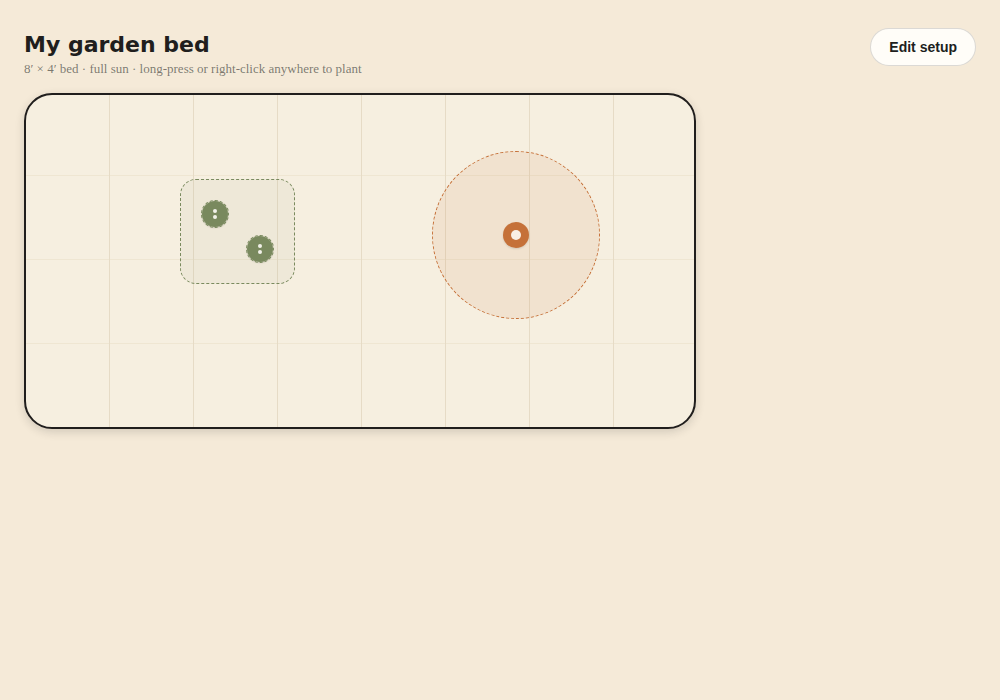
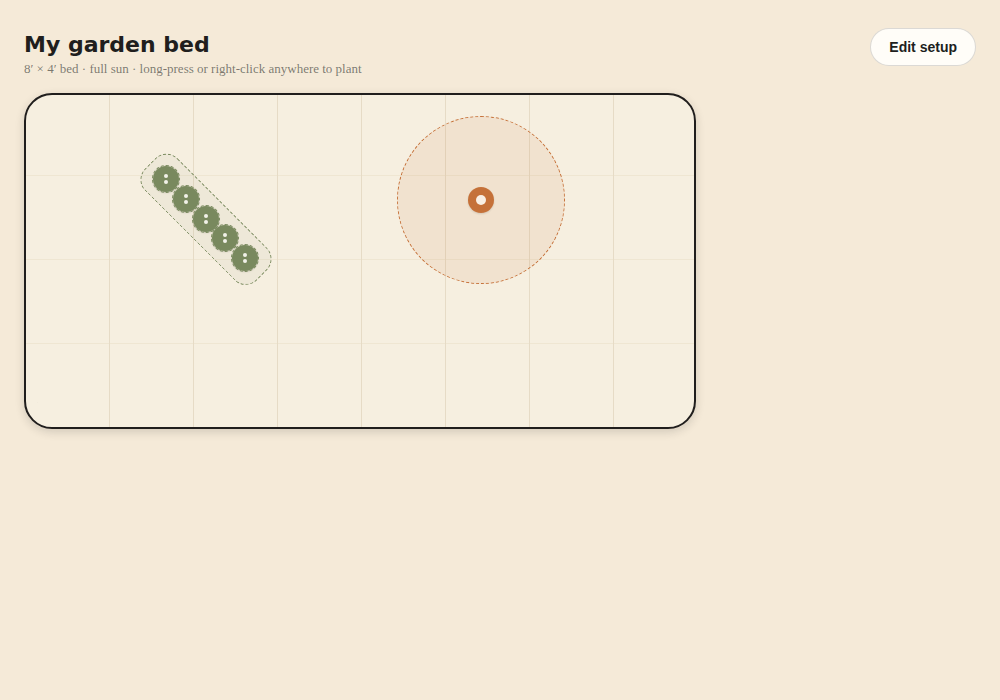
Tighten patch bounding-box margin, drop outdated screenshots
Reduces GROUP_BOX_PAD_IN from 3in to 1.25in so the box hugs the
patch's plants more closely. Also drops the axis-aligned wide-margin
screenshots (superseded by the diagonal ones already in the PR) and
recaptures the remaining screenshots against the tighter margin.

Claude-Session: https://claude.ai/code/session_01LfVH8AdkhK4b1nuHj4MqSH

Changed region(s): [[0.155, 0.21, 0.279, 0.39], [0.496, 0.3, 0.527, 0.36], [0.465, 0.27, 0.496, 0.3]]

diff --git a/src/components/BedCanvas.tsx b/src/components/BedCanvas.tsx
@@ -37,7 +37,7 @@ interface GroupBox {
   angleDeg: number;
 }
 
-const GROUP_BOX_PAD_IN = 3;
+const GROUP_BOX_PAD_IN = 1.25;
 
 /**
  * Minimum-footprint oriented bounding box around a set of circles, so a diagonal
